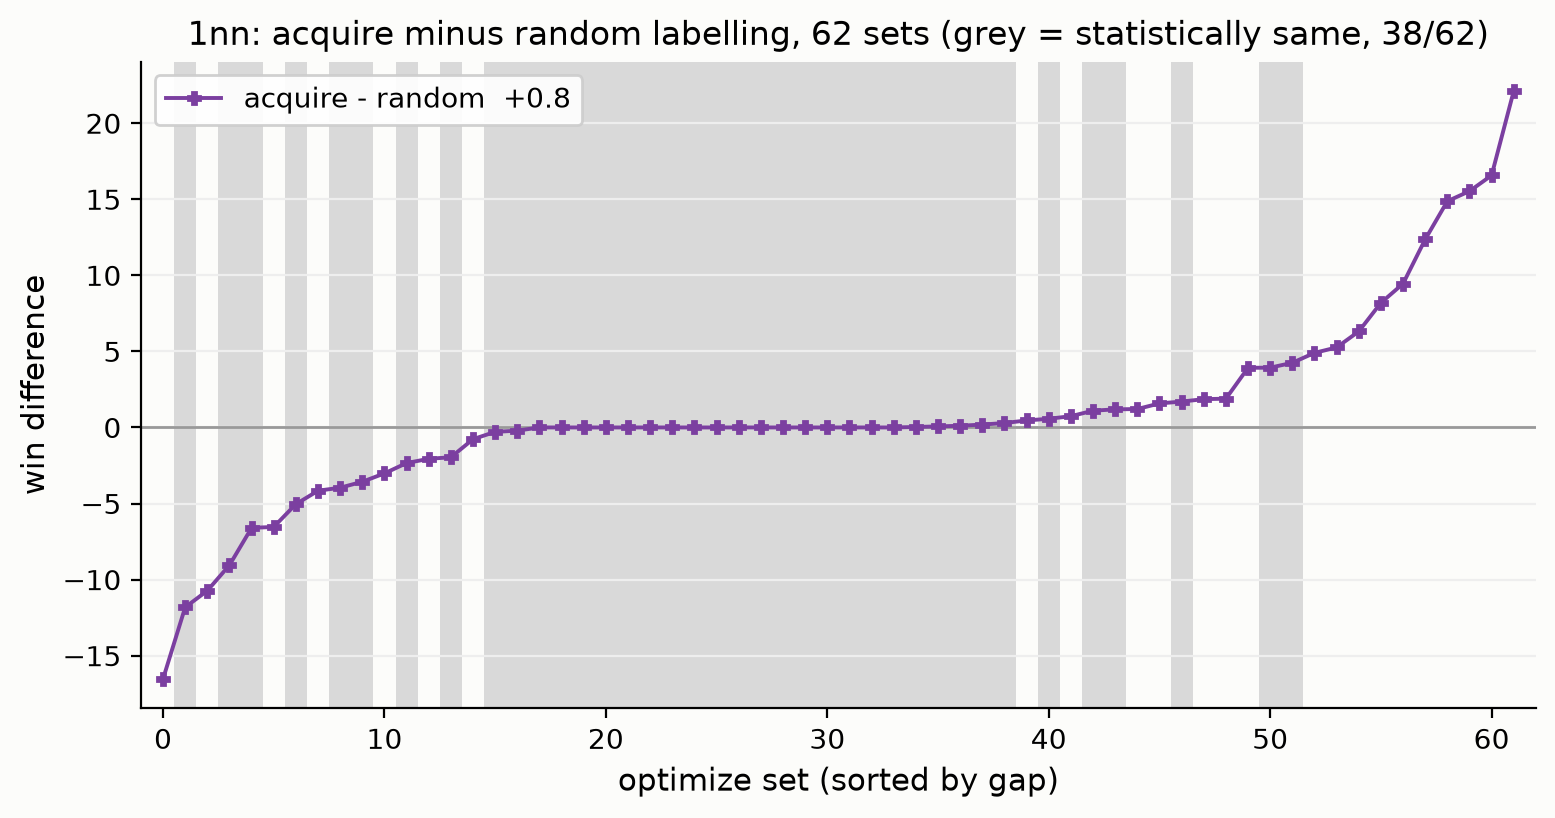
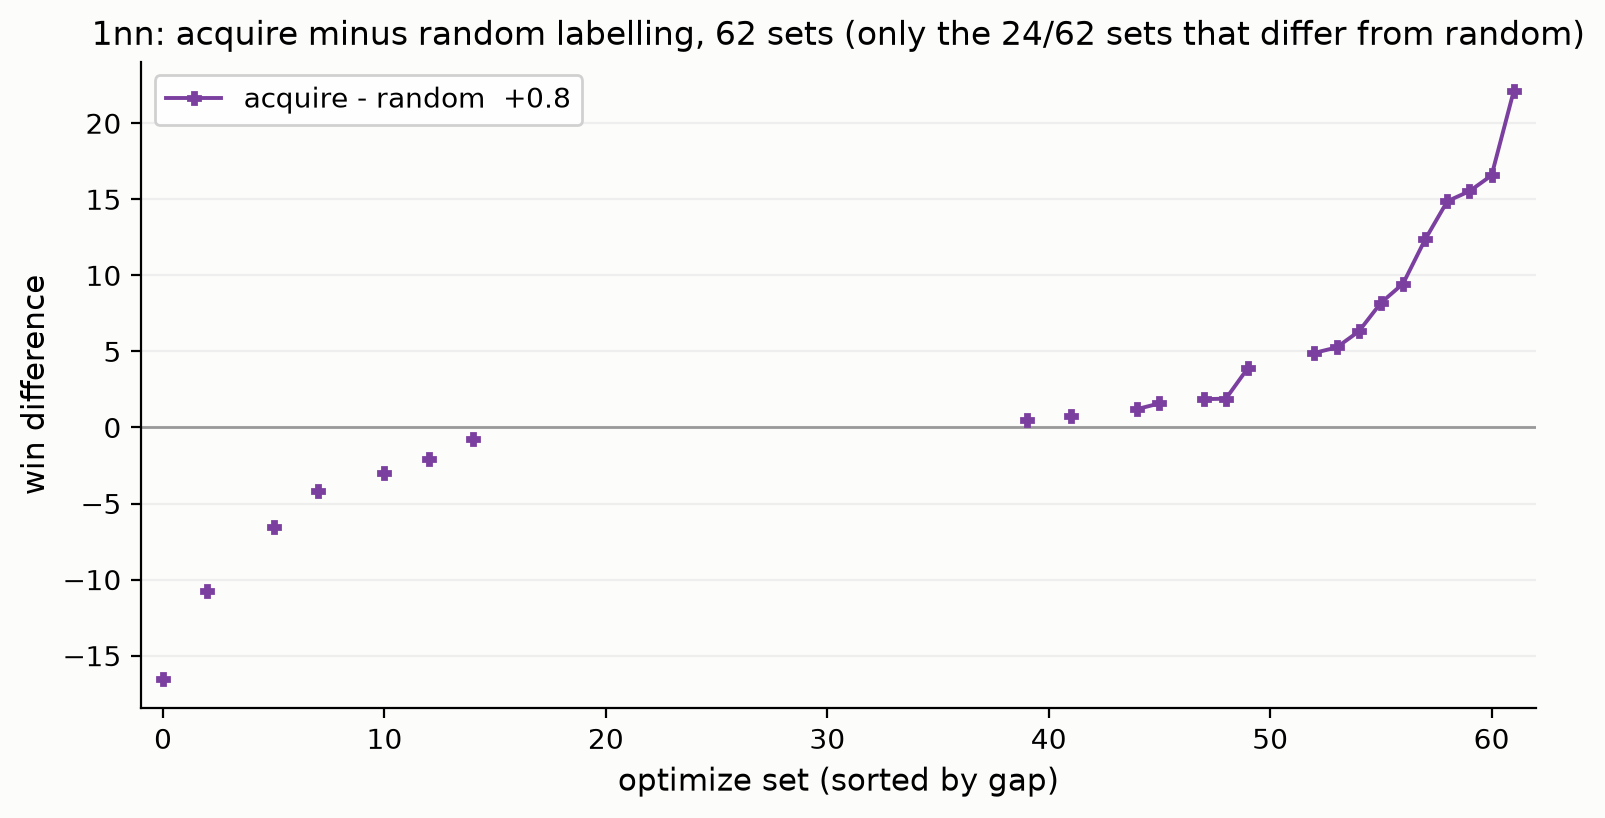
acq_plot: drop tied points, show only the 24/62 sets where acquire differs

diff --git a/acq_plot.py b/acq_plot.py
@@ -50,19 +50,17 @@ order = sorted(sets, key=gap.get)
 xs = np.arange(len(order))
 
 fig, ax = plt.subplots(figsize=(9, 4.2))
-nsame = 0
-for i, s in enumerate(order):
-  if same(F[(s, "a.knn")], F[(s, "r.knn")]):
-    ax.axvspan(i - .5, i + .5, color="#d9d9d9", lw=0, zorder=0)
-    nsame += 1
+diff = {s: not same(F[(s, "a.knn")], F[(s, "r.knn")]) for s in order}
+nsame = sum(not d for d in diff.values())
 ax.axhline(0, color="#999", lw=1)
 g = st.fmean(gap.values())
-ax.plot(xs, [gap[s] for s in order], color="#7b3fa0", marker="P", ms=4,
-        lw=1.4, zorder=2, label="acquire - random  %+.1f" % g)
+ax.plot(xs, [gap[s] if diff[s] else np.nan for s in order],
+        color="#7b3fa0", marker="P", ms=4, lw=1.4, zorder=2,
+        label="acquire - random  %+.1f" % g)
 ax.set_xlim(-1, len(order))
 ax.set_title("1nn: acquire minus random labelling, %d sets "
-             "(grey = statistically same, %d/%d)"
-             % (len(order), nsame, len(order)), fontsize=12)
+             "(only the %d/%d sets that differ from random)"
+             % (len(order), len(order) - nsame, len(order)), fontsize=12)
 ax.legend(fontsize=10, loc="upper left", framealpha=.9)
 ax.grid(axis="y", color="#eee")
 ax.set_xlabel("optimize set (sorted by gap)", fontsize=11)
